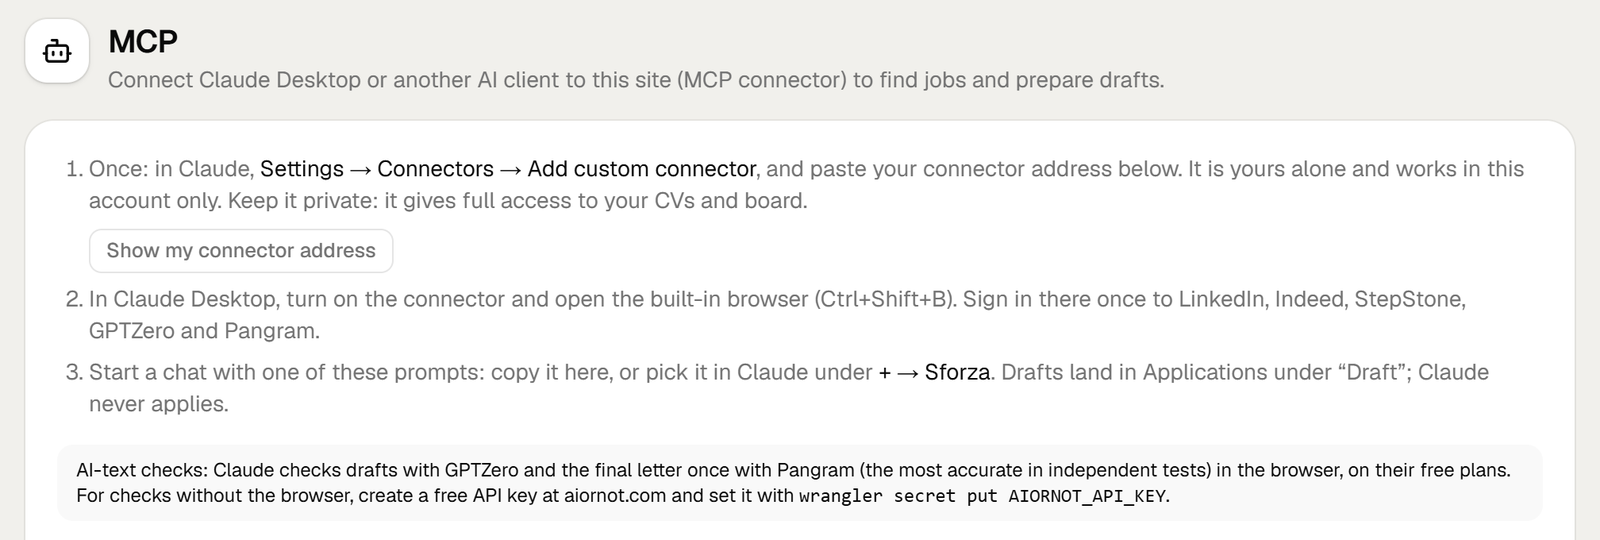
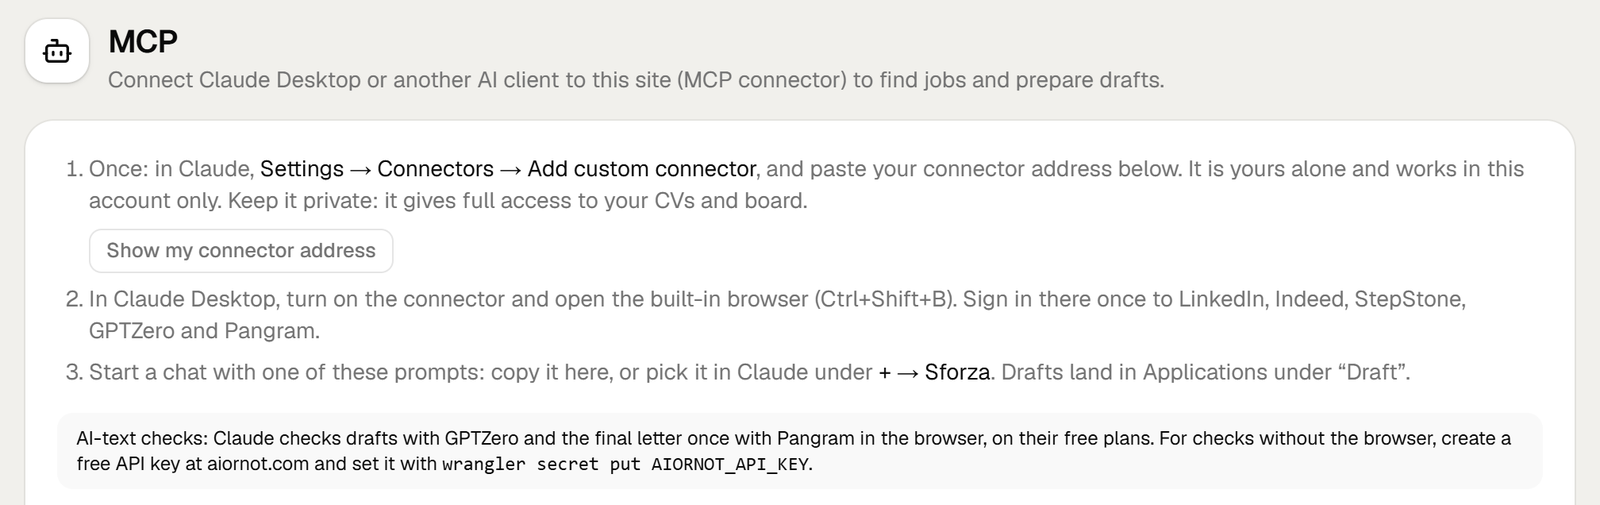
Shorter wording in the README, MCP panel and prompt descriptions; MCP GIF and setup still re-recorded

diff --git a/shared/prompts.ts b/shared/prompts.ts
@@ -121,7 +121,7 @@ export const CLAUDE_PROMPTS: ClaudePrompt[] = [
   {
     name: 'job_hunt',
     title: 'Find jobs and prepare drafts',
-    description: 'Searches the job boards, picks the best matches for my profile and leaves a tailored CV and motivation letter for each in "Draft". Never applies.',
+    description: 'Searches the job boards, picks the best matches for my profile and leaves a tailored CV and motivation letter for each in "Draft".',
     args: [
       {
         name: 'focus',
@@ -176,7 +176,7 @@ export const CLAUDE_PROMPTS: ClaudePrompt[] = [
   {
     name: 'draft_application',
     title: 'Draft one application',
-    description: 'Prepares the tailored CV, motivation letter, AI check and a complete "Draft" card for one job link. Never applies.',
+    description: 'Prepares the tailored CV, motivation letter, AI check and a complete "Draft" card for one job link.',
     args: [{ name: 'url', description: 'link to the job posting', required: true, placeholder: 'Job link' }],
     build: (ctx, args) =>
       lines(
@@ -218,7 +218,7 @@ export const CLAUDE_PROMPTS: ClaudePrompt[] = [
   {
     name: 'follow_up',
     title: 'Plan follow-ups and interviews',
-    description: 'Drafts follow-up e-mails for applications without an answer and interview prep for upcoming interviews, in the card notes. Sends nothing.',
+    description: 'Drafts follow-up e-mails for applications without an answer and interview prep for upcoming interviews, in the card notes.',
     args: [],
     build: () =>
       lines(

diff --git a/src/editor/profile/ProfilePage.tsx b/src/editor/profile/ProfilePage.tsx
@@ -340,7 +340,7 @@ function ClaudeSection({ profile }: { profile: SearchProfile }) {
         <li>In Claude Desktop, turn on the connector and open the built-in browser (Ctrl+Shift+B). Sign in there once to LinkedIn, Indeed, StepStone, GPTZero and Pangram.</li>
         <li>
           Start a chat with one of these prompts: copy it here, or pick it in Claude under <span className="text-foreground">+ → Sforza</span>.
-          Drafts land in Applications under “Draft”; Claude never applies.
+          Drafts land in Applications under “Draft”.
         </li>
       </ol>
       <p className="bg-muted/60 rounded-lg px-3 py-2 text-xs">
@@ -350,7 +350,7 @@ function ClaudeSection({ profile }: { profile: SearchProfile }) {
           </>
         ) : (
           <>
-            AI-text checks: Claude checks drafts with GPTZero and the final letter once with Pangram (the most accurate in independent tests) in the browser, on their free plans. For checks without the browser, create a free
+            AI-text checks: Claude checks drafts with GPTZero and the final letter once with Pangram in the browser, on their free plans. For checks without the browser, create a free
             API key at aiornot.com and set it with <code className="font-mono">wrangler secret put AIORNOT_API_KEY</code>.
           </>
         )}

diff --git a/README.md b/README.md
@@ -8,7 +8,7 @@ Score your CV against a job description, then build a tailored CV and cover lett
 
 ## Match score
 
-Every requirement in the posting is checked against your CV, with the line that proves it. Must-haves count three times.
+Every requirement in the posting is checked against your CV, with the line that proves it.
 
 ![Match score with requirements and ATS keywords](.github/readme/match-score.gif)
 
@@ -32,7 +32,7 @@ Eight templates on a live A4 page.
 
 ## English, French and German
 
-Each CV can have all three. The card says which one to send.
+Each CV can have all three.
 
 ![One CV in English, French and German](.github/readme/languages.gif)
 
@@ -55,7 +55,7 @@ Tailored CVs and letters pick from the knowledge base. The MCP prompts are built
 
 ## MCP
 
-Connect Claude Desktop or any MCP client. It finds jobs and prepares drafts in your account, and never applies.
+Connect Claude Desktop or any MCP client to find jobs and prepare drafts.
 
 ![MCP prompt for one job link](.github/readme/mcp.gif)
 
@@ -75,7 +75,7 @@ Connect Claude Desktop or any MCP client. It finds jobs and prepares drafts in y
 - Knowledge base of projects, skills and facts
 - Job reader for LinkedIn, Greenhouse, Lever, Ashby, SmartRecruiters, Workday and most career pages
 - Match score with quotes from your CV as evidence
-- Tailored CVs and cover letters built only from your own facts, with common CV rules plus your own
+- Tailored CVs and cover letters built only from your own facts
 - 5 letter templates (DIN 5008, Modern, Classic, Banner, Sidebar) with their own fonts, colours and spacing, or the CV's
 - One-page check: tailored CVs fill one page, letters fit on one
 - Board with your own columns, form answers and AI-text checks
@@ -159,7 +159,7 @@ Each username gets a random password in `logins.txt` and a hash in `auth-users.j
 
 ## API
 
-JSON over HTTP under `/api`. Sign in with `POST /api/auth/login` (`{ "username", "password" }`), which sets a session cookie. Every write, sign-in included, needs the header `X-Requested-With: fetch`. Bodies over 2.5 MB are refused.
+JSON over HTTP under `/api`. Sign in with `POST /api/auth/login` (`{ "username", "password" }`), which sets a session cookie. Every write, sign-in included, needs the header `X-Requested-With: fetch`.
 
 | Area | Routes |
 |---|---|
@@ -209,13 +209,13 @@ Tools:
 | Board | `list_applications`, `get_application`, `save_application`, `save_form_answers`, `delete_application`, `get_download_links` |
 | Site AI | `tailor_cv_with_site_ai`, `translate_cv_with_site_ai`, `write_motivation_letter_with_site_ai` |
 
-Prompts: `job_hunt`, `draft_application`, `review_drafts`, `follow_up`, `build_knowledge_base`. They are built from the job search profile.
+Prompts: `job_hunt`, `draft_application`, `review_drafts`, `follow_up`, `build_knowledge_base`.
 
 The job search defaults to Germany. Set a country in the job search profile to search another market.
 
-`edit_cv` can change everything the editor can (template, fonts, colours, spacing, placement, order, items). `fit_cv_to_page` tries font sizes, spacing and column widths on the real print page and keeps the fullest single page, so the one-page fit does not depend on how good the AI client is at layout.
+`edit_cv` can change everything the editor can (template, fonts, colours, spacing, placement, order, items). `fit_cv_to_page` tries font sizes, spacing and column widths on the real print page and keeps the fullest single page.
 
-Every CV follows the same common-sense rules (adapt it to the posting, only facts from your CV and knowledge base, titles and dates as stated, one full page). Add your own under "My rules for CVs and letters" in the job search profile. AI clients on the connector and the site's own AI follow both.
+Every CV follows the same common-sense rules (adapt it to the posting, only facts from your CV and knowledge base, titles and dates as stated, one full page). Add your own under "My rules for CVs and letters" in the job search profile.
 
 ## Deploy
 
